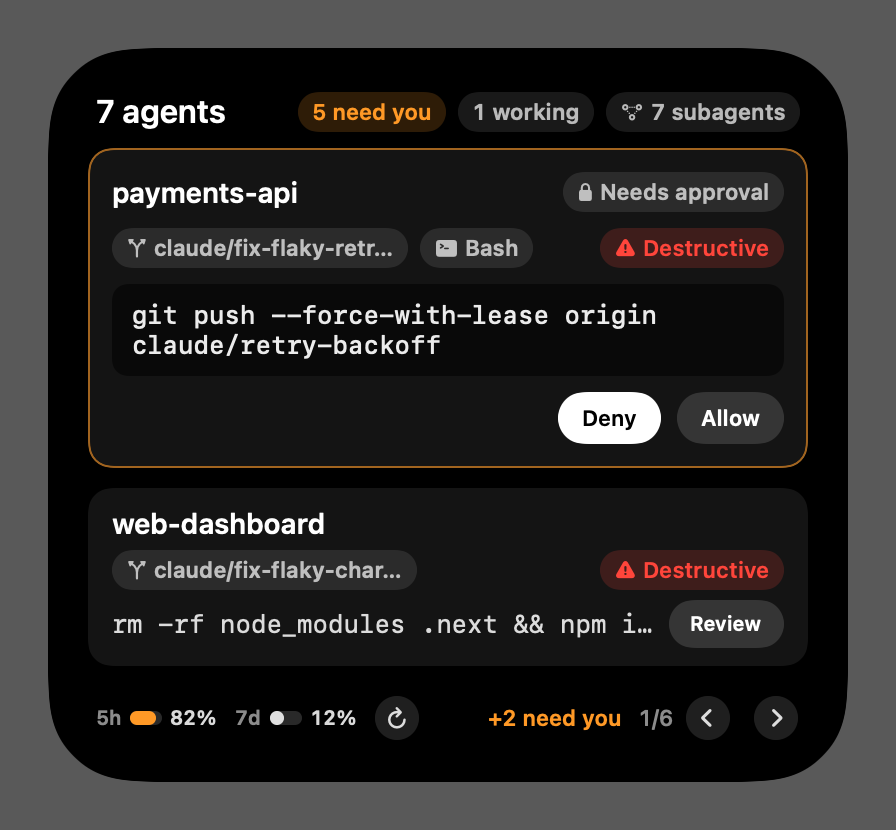
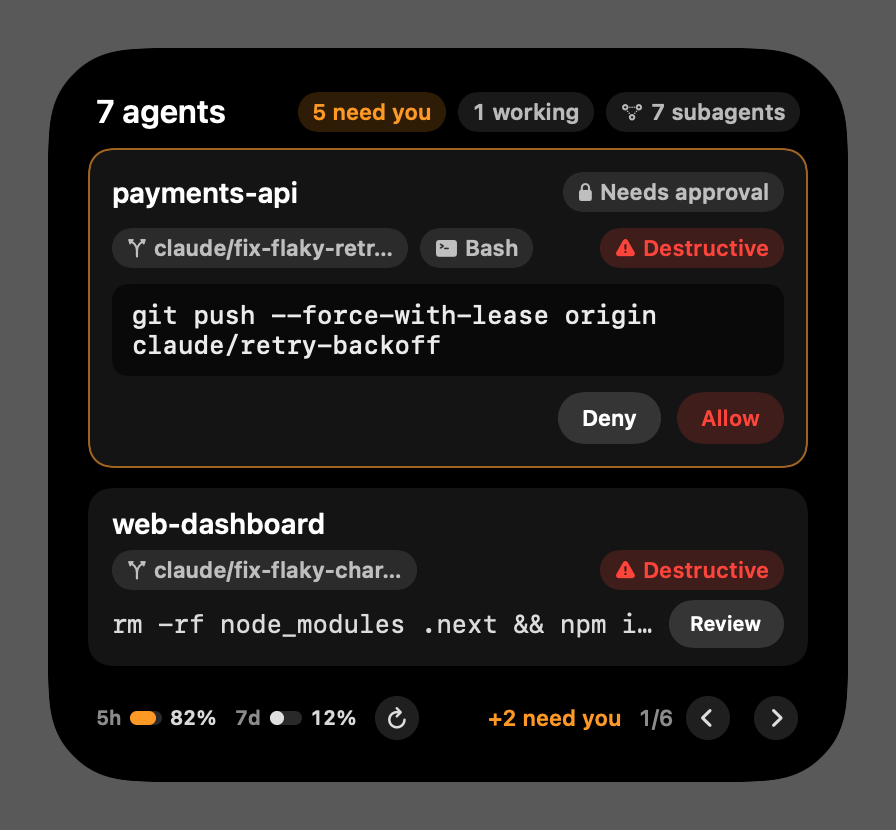
Approval buttons: quiet Deny left, red-tinted Allow, filled red Confirm
Standard primary/secondary roles; Deny no longer inverts to a filled button.

Changed region(s): [[0.625, 0.4518, 0.875, 0.5422]]

diff --git a/Shared/IslandViews.swift b/Shared/IslandViews.swift
@@ -316,6 +316,8 @@ struct Pill: View {
     let title: String
     var tint: Color = .white
     var filled = false
+    /// Tinted text on a faint wash of the tint: a secondary action that carries a meaning (red for destructive).
+    var wash = false
     var height: CGFloat = 32
     var stretch = true
     @Environment(\.islandScale) private var k
@@ -325,7 +327,7 @@ struct Pill: View {
             .foregroundStyle(filled ? Color.black : tint == .white ? Color.white : tint)
             .padding(.horizontal, h * 0.45)
             .frame(maxWidth: stretch ? .infinity : nil, minHeight: h, maxHeight: h)
-            .background(Capsule().fill(filled ? tint : Color.white.opacity(0.14)))
+            .background(Capsule().fill(filled ? tint : wash ? tint.opacity(0.18) : Color.white.opacity(0.14)))
             .frame(minHeight: 24)
             .contentShape(Rectangle())
     }
@@ -498,8 +500,8 @@ struct PromptPanel: View {
         .background(RoundedRectangle(cornerRadius: Island.innerRadius, style: .continuous).fill(Color.black.opacity(0.55)))
     }
 
-    /// The only place an approval is answered. A destructive request makes Deny the prominent button and Allow a
-    /// two-step: "Allow", then "Confirm" (red, for a few seconds). "Allow for session" is never offered for it.
+    /// The only place an approval is answered. Standard button roles: quiet Deny on the left, the action on the right. A destructive
+    /// request tints Allow red and makes it a two-step: "Allow", then a filled red "Confirm" for a few seconds. "Allow for session" is never offered for it.
     @ViewBuilder private var actions: some View {
         HStack(spacing: 8) {
             if !p.canAnswer {
@@ -526,7 +528,8 @@ struct PromptPanel: View {
                 .accessibilityLabel("Answer in Claude: \(p.session)")
             } else {
                 if p.confirming {
-                    Text("Tap Confirm to run it").sfont(size: 11, weight: .medium).foregroundStyle(Island.secondary).lineLimit(1)
+                    Text("Confirm to run it · reverts in \(Int(AllowConfirmation.timeout))s").sfont(size: 11, weight: .medium)
+                        .foregroundStyle(Island.secondary).lineLimit(1)
                 } else if let scope = p.sessionScope {
                     // Quiet secondary option: a text link, not a third button. Names exactly what it covers.
                     Button(intent: AllowSessionIntent(sessionId: p.sessionId, requestId: p.requestId)) {
@@ -536,14 +539,14 @@ struct PromptPanel: View {
                 }
                 Spacer(minLength: 8)
                 Button(intent: DenyIntent(sessionId: p.sessionId, requestId: p.requestId)) {
-                    Pill(title: "Deny", tint: .white, filled: p.destructive, height: 26, stretch: false)
+                    Pill(title: "Deny", height: 26, stretch: false)
                 }
                 .accessibilityLabel("Deny \(Island.target(p.tool, p.text))")
                 Button(intent: AllowIntent(sessionId: p.sessionId, requestId: p.requestId)) {
                     if p.confirming {
                         Pill(title: "Confirm", tint: Island.danger, filled: true, height: 26, stretch: false)
                     } else if p.destructive {
-                        Pill(title: "Allow", tint: .white, height: 26, stretch: false)
+                        Pill(title: "Allow", tint: Island.danger, wash: true, height: 26, stretch: false)
                     } else {
                         Pill(title: "Allow", tint: Island.allow, filled: true, height: 26, stretch: false)
                     }

diff --git a/CHANGELOG.md b/CHANGELOG.md
@@ -13,8 +13,8 @@ All notable changes are documented here. The format follows [Keep a Changelog](h
   destructive, green = the Allow button only; coral stays on the logo. Limit and context meters are grey until orange
   (75% / 65%) and red (90% / 85%, with a "!"). Only the "need you" count is tinted in the header.
 - **One approval pattern**: only the featured card answers. Session rows show a quiet **Review** (or **Open**) instead of
-  inline Deny / Allow. On a destructive command Deny is the prominent button and Allow takes a second tap (**Confirm**,
-  lapses after 6 s); "Allow for session" stays hidden for it.
+  inline Deny / Allow. On a destructive command Allow is red-tinted and takes a second tap (a filled red **Confirm**,
+  lapses after 6 s), with Deny staying a quiet secondary button; "Allow for session" stays hidden for it.
 - **Branding**: the name is styled **NotchBot** in the UI and docs (identifiers `Notchbot.app`, `notchbot-hook`,
   `dev.notchbot.app` keep the lowercase form), and the robot logo sits at the top of the README.
 - **Renamed from Claude Notch to NotchBot**, with a new pixel-art robot logo, so the name and mark no longer lean on

diff --git a/README.md b/README.md
@@ -82,8 +82,8 @@ It opens by itself when something needs you (and on a finished result, if you li
 
 - **Approve from the island.** A permission request shows the exact command with **Allow / Deny**. Requests from a
   subagent say so. Approvals are answered only on this card: any other waiting session shows a quiet **Review** that
-  brings its request up. A destructive command (`rm -rf`, force-push, `sudo`, ...) makes **Deny** the prominent button
-  and asks you to tap **Allow** twice (**Allow**, then **Confirm**).
+  brings its request up. A destructive command (`rm -rf`, force-push, `sudo`, ...) tints **Allow** red
+  and asks you to tap it twice (**Allow**, then a filled red **Confirm**).
 - **Questions.** When Claude asks you something, the island shows the question and its choices; **Answer in Claude**
   jumps to the session, **Not now** dismisses it.
 - **Every session at a glance.** Name, branch, elapsed time, the prompt that started the turn, the current tool,
